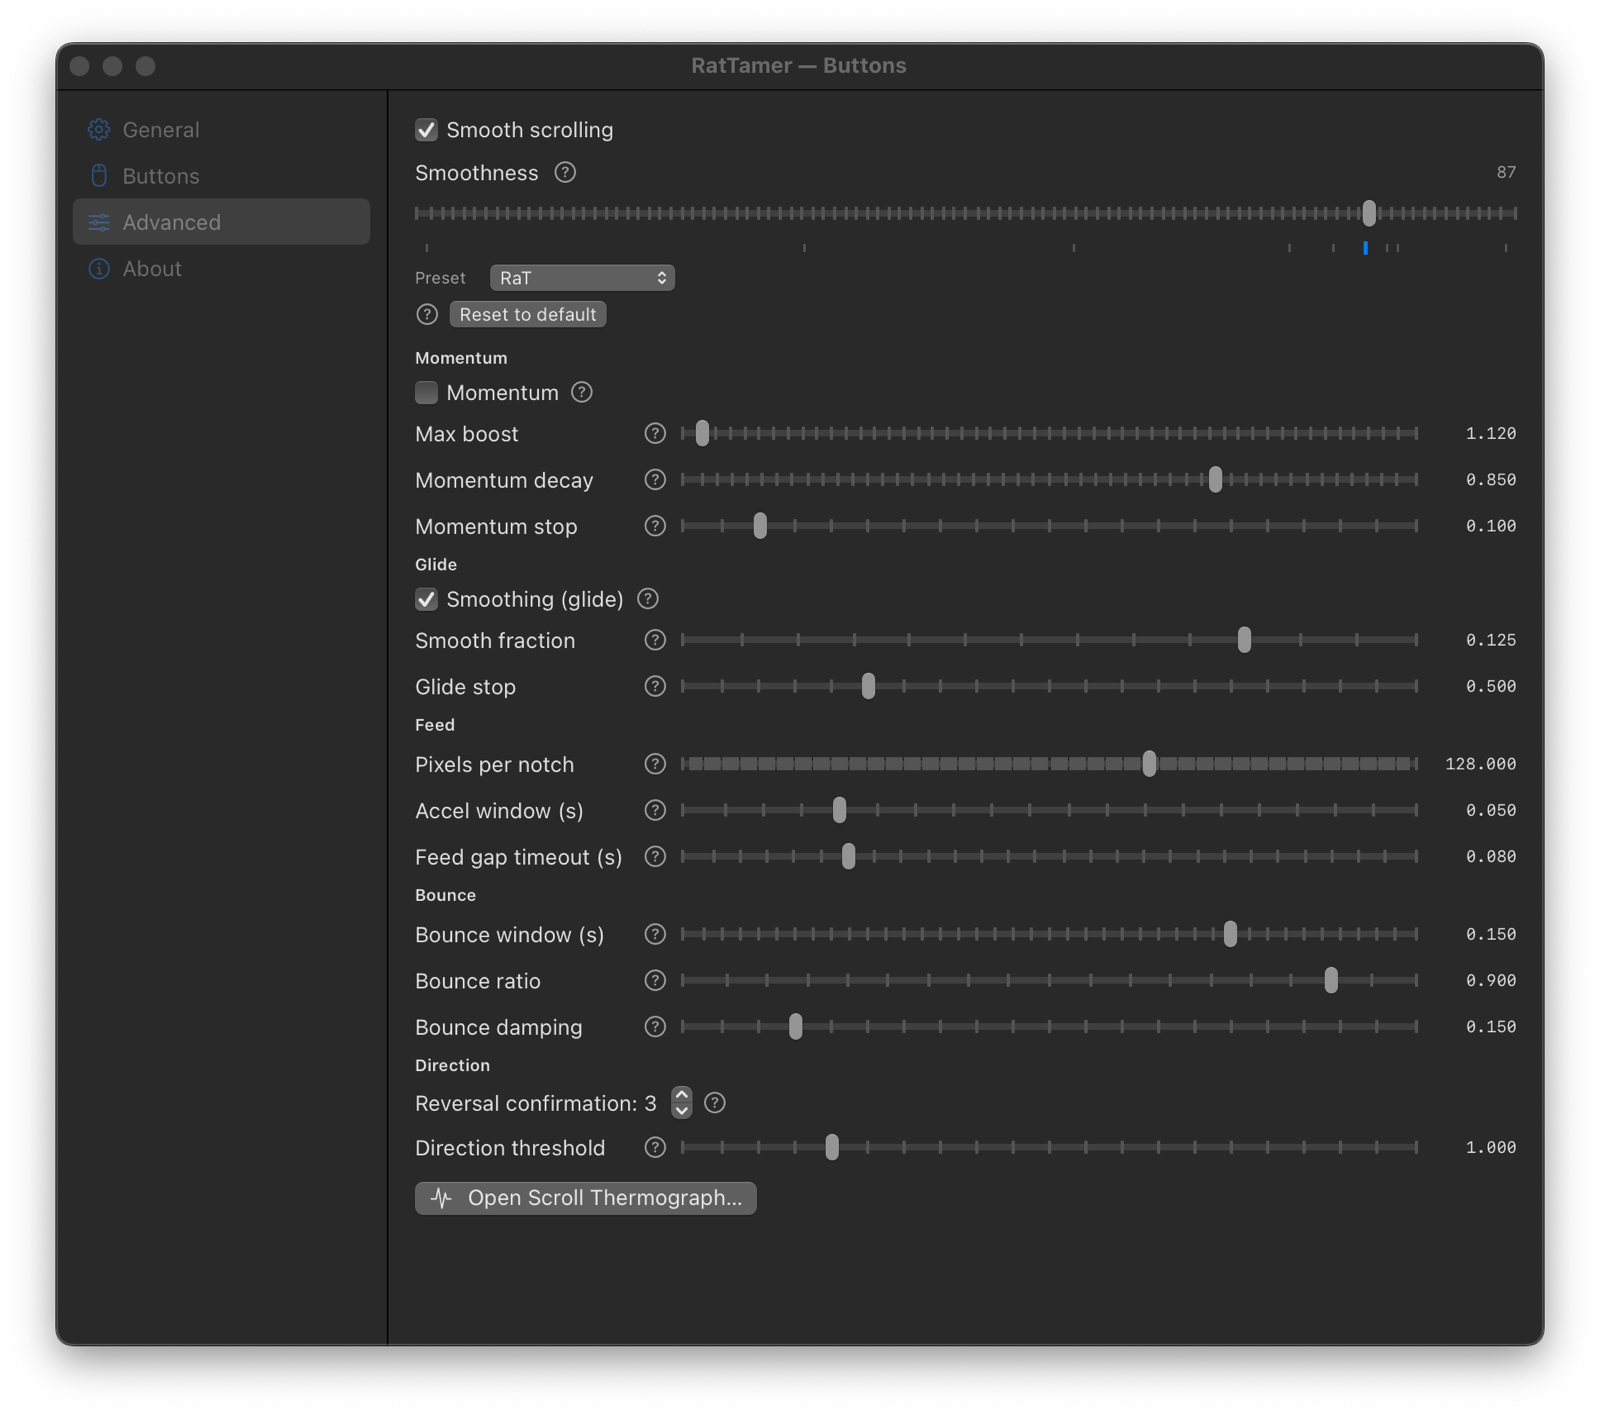
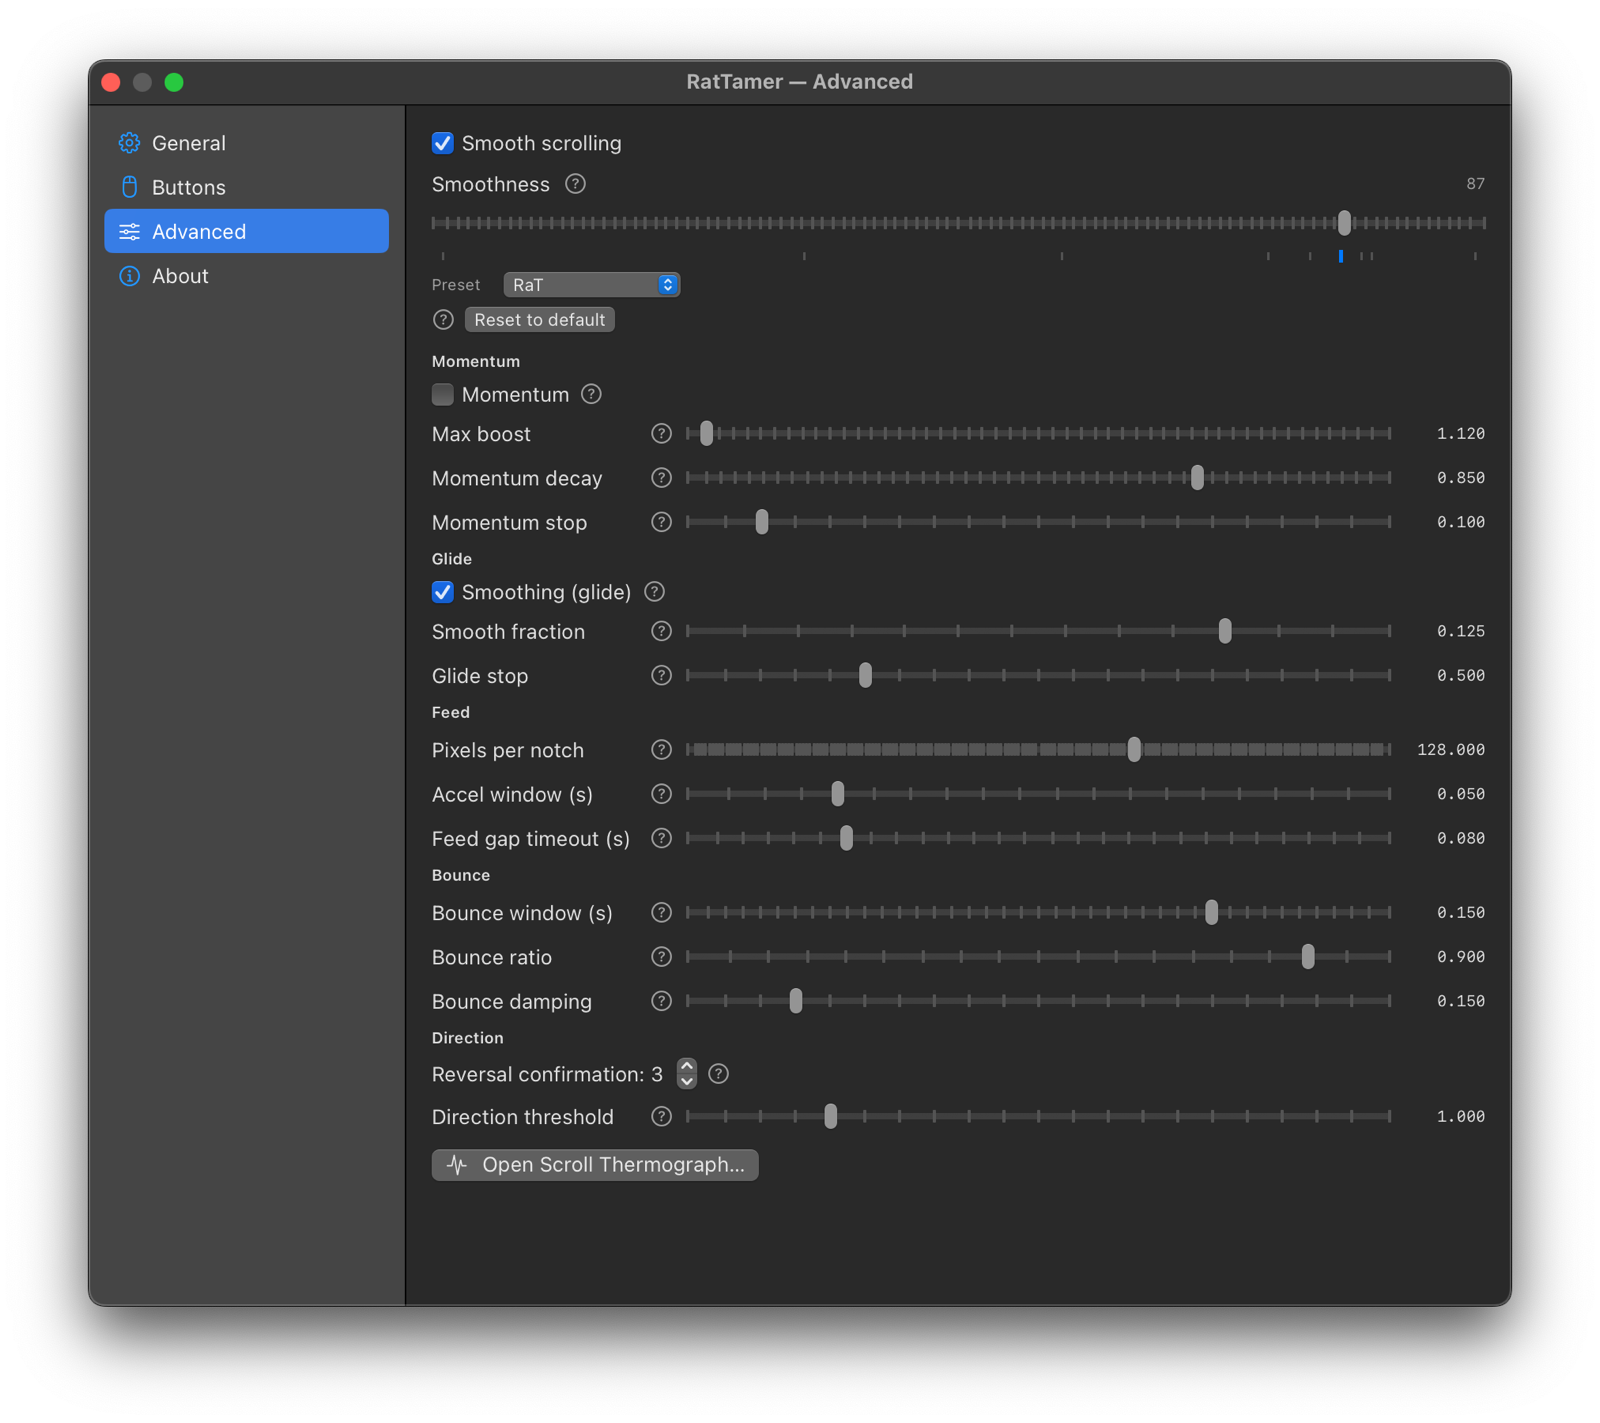
feat(site): galeria completa de screenshots (General/Buttons/Advanced/About/RatTest) com lightbox

diff --git a/docs/index.html b/docs/index.html
@@ -59,8 +59,8 @@
   ul.plain li:last-child { border-bottom: none; }
   ul.plain b { font-weight: 600; }
 
-  .duo { display: grid; grid-template-columns: 1fr 1fr; gap: 26px; align-items: start; }
-  @media (max-width: 740px) { .duo { grid-template-columns: 1fr; } }
+  .gallery { display: grid; grid-template-columns: repeat(auto-fit, minmax(280px, 1fr)); gap: 20px; align-items: start; }
+  .gallery figcaption { text-align: center; }
   img { width: 100%; height: auto; }
   img.zoom { cursor: zoom-in; }
   #lb { position: fixed; inset: 0; background: rgba(8,9,11,.88); display: flex;
@@ -126,14 +126,27 @@
 <section id="smooth">
   <div class="wrap">
     <h2>Screenshots</h2>
-    <div class="duo">
+    <p class="lead">Click any window to enlarge.</p>
+    <div class="gallery">
+      <figure>
+        <img src="assets/settings-general.png" alt="Settings window, General tab" class="zoom" loading="lazy">
+        <figcaption>General</figcaption>
+      </figure>
       <figure>
         <img src="assets/settings-buttons.png" alt="Settings window, Buttons tab" class="zoom" loading="lazy">
-        <figcaption>Buttons tab: per-button actions and SmartShift.</figcaption>
+        <figcaption>Buttons</figcaption>
       </figure>
       <figure>
         <img src="assets/settings-advanced.png" alt="Settings window, Advanced tab" class="zoom" loading="lazy">
-        <figcaption>Advanced tab: the smoothing parameters.</figcaption>
+        <figcaption>Advanced</figcaption>
+      </figure>
+      <figure>
+        <img src="assets/settings-about.png" alt="Settings window, About tab" class="zoom" loading="lazy">
+        <figcaption>About</figcaption>
+      </figure>
+      <figure>
+        <img src="assets/rattest.png" alt="RatTest tuning panel" class="zoom" loading="lazy">
+        <figcaption>RatTest — live tuning panel (dev)</figcaption>
       </figure>
     </div>
   </div>
